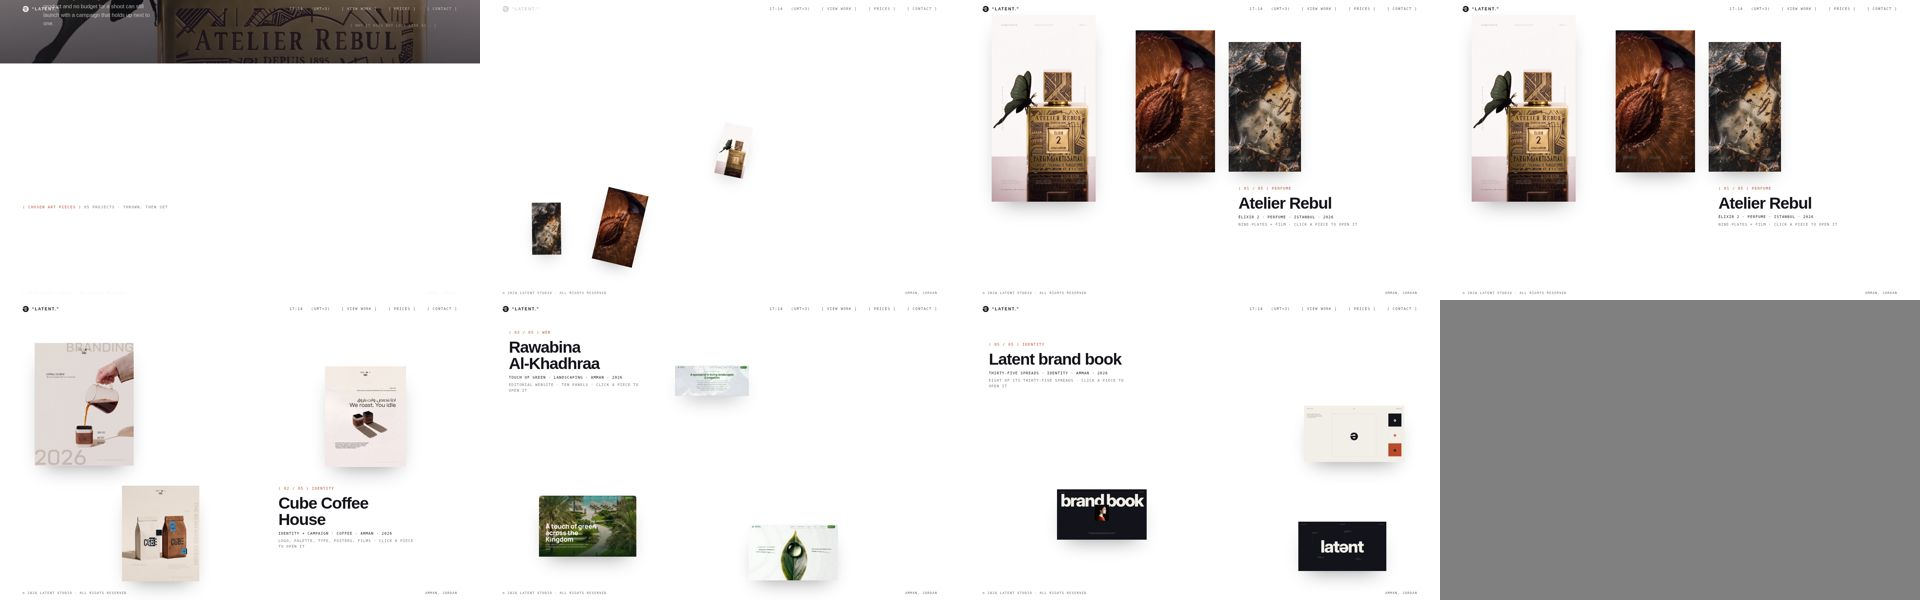
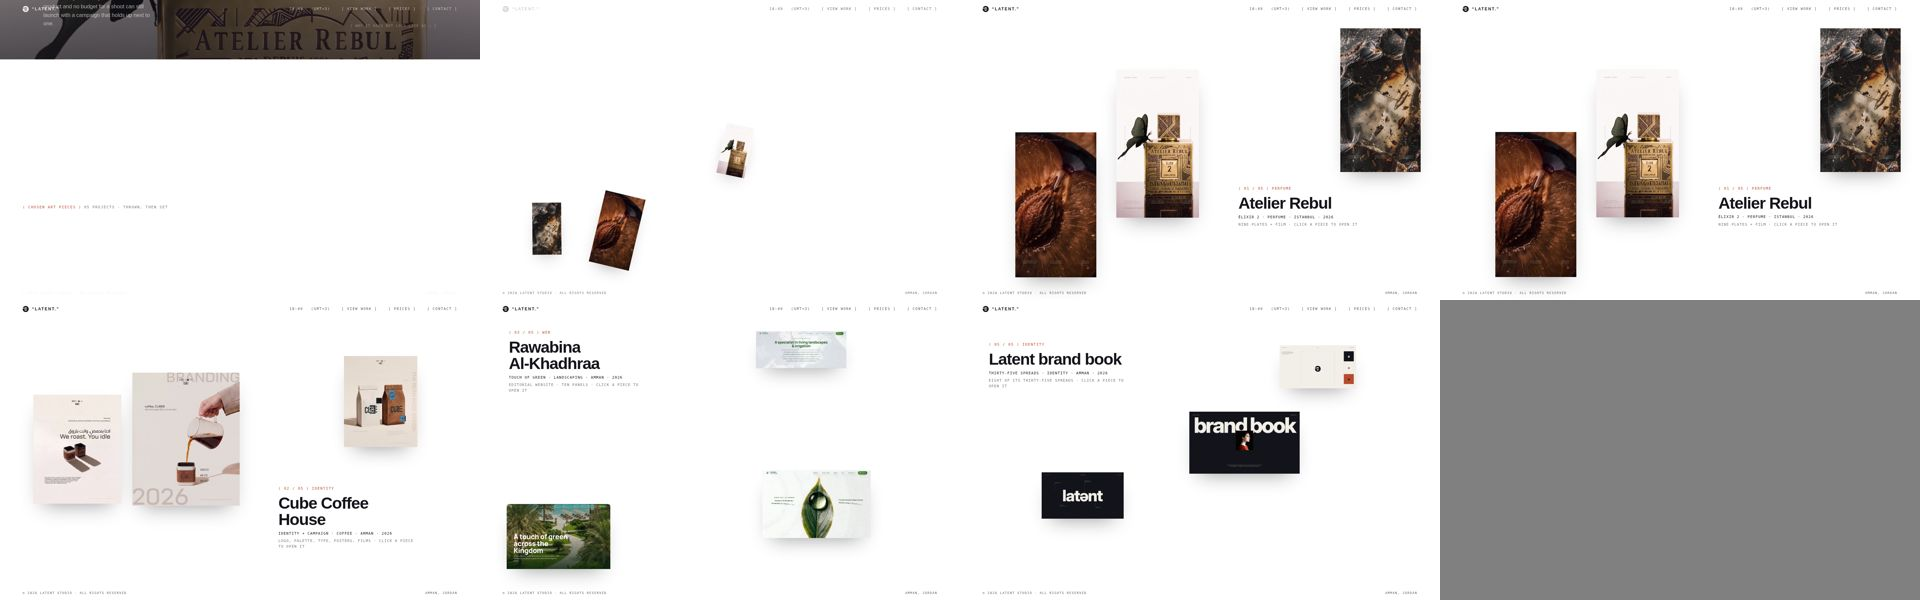
Hero back to the wordmark; scatter positions worked out in the browser
The settled positions of each scatter screen are now computed against the real text box and screen size, seeded per screen, so no piece can land on the text at any viewport. The hero returns to the wordmark version on D and E.

Claude-Session: https://claude.ai/code/session_0142D8cuVtdJreCuNyu9fMo2

diff --git a/latent-v3d/index.html b/latent-v3d/index.html
@@ -2435,22 +2435,12 @@ html.pg-snap{scroll-snap-type:y proximity}
     <video class="pv-v pv-m js-pv-v" muted loop playsinline preload="none" poster="media/03-e05071777b.jpg" data-src="media/04-f0f04687bf.mp4"></video>
     <i class="pv-noise"></i><i class="pv-grad"></i>
   </div>
-  <div class="stage he">
-    <p class="he-top js-pu2" style="--d:.1s"><span>Latent.</span><span>Brand visuals<br>&amp; film</span><span>AI-native<br>practice</span><span>Amman<br><span id="clock">--:--</span> GMT+3</span><span>Edition<br>No. 001</span></p>
-    <h1 class="he-head js-pu2" style="--d:.25s">Not your<br>average <em>AI.</em></h1>
-    <p class="he-sub js-pu2" style="--d:.45s">Directed<br>like film.</p>
-    <p class="he-year js-pu2" style="--d:.6s"><span class="logo he-logo" role="img" aria-label="Latent"></span>&copy;20<br>26</p>
-    <i class="he-rule he-rule1 js-he-rule" style="--d:.5s"></i><i class="he-rule he-rule2 js-he-rule" style="--d:.65s"></i>
-    <p class="he-p he-p1 js-pu2" style="--d:.7s">Every frame leaves a trace. Light, lens, angle and story all carry meaning. What looks generated is usually a decision nobody made. Direction begins when someone makes it.</p>
-    <p class="he-p he-p2 js-pu2" style="--d:.85s">We do not believe in prompts as briefs. Each product demands its own light, its own lens, its own way of sitting in the frame. The process is one of testing, reducing, shifting and rebuilding until the frame feels shot, not typed.</p>
-    <span class="he-tab he-tab1 js-pu2" style="--d:.9s">Working method</span>
-    <span class="he-tab he-tab2 js-pu2" style="--d:1s">Design principle</span>
-    <span class="he-v he-v1 js-pu2" style="--d:.95s">A frame is a decision</span>
-    <span class="he-v he-v2 js-pu2" style="--d:1.05s">Light has weight</span>
-    <p class="he-bl js-pu2" style="--d:1.1s">No set. No crew. No reshoot day.</p>
-    <span class="he-ratio js-pu2" style="--d:1.08s">60 &middot; 30 &middot; 10</span>
-    <a class="he-br js-pu2" href="#prices" style="--d:1.15s">Let&rsquo;s generate &#8599;</a>
-    <span class="he-hide"><span class="cyc" id="cyc"></span></span>
+  <div class="stage hb">
+    <h1 class="hb-mark js-pu2" style="--d:.1s"><span class="hb-w">Latent</span> <span class="hb-w">Studio</span></h1>
+    <p class="hb-meta js-pu2" style="--d:.55s"><span>AI-native brand visuals</span><span>Directed like film</span><span>Est. 2026 &middot; Amman</span></p>
+    <p class="hs hs-role js-pu2 hb-role" style="--d:.7s">Your brand deserves better <span class="cyc" id="cyc"></span></p>
+    <a class="hb-cta js-pu2" href="#prices" style="--d:.85s"><small>Have something in mind?</small><b>Let&rsquo;s generate <span>&#8599;</span></b></a>
+    <span id="clock" hidden>&mdash;</span>
   </div>
 </section></div>
 
@@ -4319,6 +4309,37 @@ html.pg-snap{scroll-snap-type:y proximity}
   var first = document.querySelector(".hero .js-pu2"); if(!first) return;
   var mo = new MutationObserver(function(){ var on = first.classList.contains("in"); rules.forEach(function(r){ r.classList.toggle("in", on); }); });
   mo.observe(first, { attributes:true, attributeFilter:["class"] }); rules.forEach(function(r){ r.classList.toggle("in", first.classList.contains("in")); });
+})();
+/* the scatter, settled for real: each screen's resting positions are worked out in the browser against the actual
+   text box and screen, with a seeded shuffle per screen so they stay put between visits; nothing overlaps */
+(function(){
+  var sec = document.querySelector(".js-sx"); if(!sec) return;
+  var panels = [].slice.call(sec.querySelectorAll(".js-sx-panel")), phone = function(){ return window.innerWidth <= 820; };
+  function rng(seed){ return function(){ seed = (seed * 9301 + 49297) % 233280; return seed / 233280; }; }
+  function hit(a, b, m){ return !(a.x + a.w < b.x - m || a.x > b.x + b.w + m || a.y + a.h < b.y - m || a.y > b.y + b.h + m); }
+  function layout(p, i){
+    var W = p.clientWidth, H = p.clientHeight, txt = p.querySelector(".js-sx-text"), tr = txt.getBoundingClientRect(), pr = p.getBoundingClientRect();
+    var tb = { x: tr.left - pr.left, y: tr.top - pr.top, w: tr.width, h: tr.height };
+    var tiles = [].slice.call(p.querySelectorAll(".js-sx-t")).filter(function(t){ return getComputedStyle(t).display !== "none"; });
+    var r = rng(17 + i * 101), m = Math.max(10, W * .012), placed = [], top = phone() ? H * .06 : H * .05, bottom = phone() ? tb.y - m : H * .95;
+    tiles.forEach(function(t, k){
+      var ar = (t.style.getPropertyValue("--ar") || "4/5").split("/"), a = parseFloat(ar[0]) / parseFloat(ar[1] || 1);
+      var wmin = phone() ? W * .30 : W * .15, wmax = phone() ? W * .44 : W * .23, box = null, tries = 0, scale = 1;
+      while(!box && tries < 4000){
+        tries++; if(tries % 800 === 0) scale *= .88;
+        var w = (wmin + r() * (wmax - wmin)) * scale, h = w / a; if(h > (bottom - top) * .9) continue;
+        var x = W * .02 + r() * (W * .96 - w), y = top + r() * (bottom - top - h), b = { x: x, y: y, w: w, h: h };
+        if((!phone() && hit(b, tb, m)) || placed.some(function(o){ return hit(b, o, m); })) continue;
+        box = b;
+      }
+      if(!box) box = { x: W * .02 + k * W * .3, y: top, w: wmin * .8, h: wmin * .8 / a };
+      placed.push(box);
+      t.style.setProperty("--ox", (box.x / W * 100).toFixed(2)); t.style.setProperty("--oy", (box.y / H * 100).toFixed(2)); t.style.setProperty("--ow", (box.w / window.innerWidth * 100).toFixed(2));
+      t.style.setProperty("--px", (box.x / W * 100).toFixed(2)); t.style.setProperty("--py", (box.y / H * 100).toFixed(2)); t.style.setProperty("--pw", (box.w / window.innerWidth * 100).toFixed(2));
+    });
+  }
+  function all(){ panels.forEach(layout); }
+  var t; window.addEventListener("resize", function(){ clearTimeout(t); t = setTimeout(all, 150); }); window.addEventListener("load", all); if(document.fonts && document.fonts.ready) document.fonts.ready.then(all); all();
 })();
 </script>
 </body>

diff --git a/latent-v3e/index.html b/latent-v3e/index.html
@@ -2435,22 +2435,12 @@ html.pg-snap{scroll-snap-type:y proximity}
     <video class="pv-v pv-m js-pv-v" muted loop playsinline preload="none" poster="media/03-e05071777b.jpg" data-src="media/04-f0f04687bf.mp4"></video>
     <i class="pv-noise"></i><i class="pv-grad"></i>
   </div>
-  <div class="stage he">
-    <p class="he-top js-pu2" style="--d:.1s"><span>Latent.</span><span>Brand visuals<br>&amp; film</span><span>AI-native<br>practice</span><span>Amman<br><span id="clock">--:--</span> GMT+3</span><span>Edition<br>No. 001</span></p>
-    <h1 class="he-head js-pu2" style="--d:.25s">Not your<br>average <em>AI.</em></h1>
-    <p class="he-sub js-pu2" style="--d:.45s">Directed<br>like film.</p>
-    <p class="he-year js-pu2" style="--d:.6s"><span class="logo he-logo" role="img" aria-label="Latent"></span>&copy;20<br>26</p>
-    <i class="he-rule he-rule1 js-he-rule" style="--d:.5s"></i><i class="he-rule he-rule2 js-he-rule" style="--d:.65s"></i>
-    <p class="he-p he-p1 js-pu2" style="--d:.7s">Every frame leaves a trace. Light, lens, angle and story all carry meaning. What looks generated is usually a decision nobody made. Direction begins when someone makes it.</p>
-    <p class="he-p he-p2 js-pu2" style="--d:.85s">We do not believe in prompts as briefs. Each product demands its own light, its own lens, its own way of sitting in the frame. The process is one of testing, reducing, shifting and rebuilding until the frame feels shot, not typed.</p>
-    <span class="he-tab he-tab1 js-pu2" style="--d:.9s">Working method</span>
-    <span class="he-tab he-tab2 js-pu2" style="--d:1s">Design principle</span>
-    <span class="he-v he-v1 js-pu2" style="--d:.95s">A frame is a decision</span>
-    <span class="he-v he-v2 js-pu2" style="--d:1.05s">Light has weight</span>
-    <p class="he-bl js-pu2" style="--d:1.1s">No set. No crew. No reshoot day.</p>
-    <span class="he-ratio js-pu2" style="--d:1.08s">60 &middot; 30 &middot; 10</span>
-    <a class="he-br js-pu2" href="#prices" style="--d:1.15s">Let&rsquo;s generate &#8599;</a>
-    <span class="he-hide"><span class="cyc" id="cyc"></span></span>
+  <div class="stage hb">
+    <h1 class="hb-mark js-pu2" style="--d:.1s"><span class="hb-w">Latent</span> <span class="hb-w">Studio</span></h1>
+    <p class="hb-meta js-pu2" style="--d:.55s"><span>AI-native brand visuals</span><span>Directed like film</span><span>Est. 2026 &middot; Amman</span></p>
+    <p class="hs hs-role js-pu2 hb-role" style="--d:.7s">Your brand deserves better <span class="cyc" id="cyc"></span></p>
+    <a class="hb-cta js-pu2" href="#prices" style="--d:.85s"><small>Have something in mind?</small><b>Let&rsquo;s generate <span>&#8599;</span></b></a>
+    <span id="clock" hidden>&mdash;</span>
   </div>
 </section></div>
 
@@ -4356,6 +4346,37 @@ html.pg-snap{scroll-snap-type:y proximity}
   var first = document.querySelector(".hero .js-pu2"); if(!first) return;
   var mo = new MutationObserver(function(){ var on = first.classList.contains("in"); rules.forEach(function(r){ r.classList.toggle("in", on); }); });
   mo.observe(first, { attributes:true, attributeFilter:["class"] }); rules.forEach(function(r){ r.classList.toggle("in", first.classList.contains("in")); });
+})();
+/* the scatter, settled for real: each screen's resting positions are worked out in the browser against the actual
+   text box and screen, with a seeded shuffle per screen so they stay put between visits; nothing overlaps */
+(function(){
+  var sec = document.querySelector(".js-sx"); if(!sec) return;
+  var panels = [].slice.call(sec.querySelectorAll(".js-sx-panel")), phone = function(){ return window.innerWidth <= 820; };
+  function rng(seed){ return function(){ seed = (seed * 9301 + 49297) % 233280; return seed / 233280; }; }
+  function hit(a, b, m){ return !(a.x + a.w < b.x - m || a.x > b.x + b.w + m || a.y + a.h < b.y - m || a.y > b.y + b.h + m); }
+  function layout(p, i){
+    var W = p.clientWidth, H = p.clientHeight, txt = p.querySelector(".js-sx-text"), tr = txt.getBoundingClientRect(), pr = p.getBoundingClientRect();
+    var tb = { x: tr.left - pr.left, y: tr.top - pr.top, w: tr.width, h: tr.height };
+    var tiles = [].slice.call(p.querySelectorAll(".js-sx-t")).filter(function(t){ return getComputedStyle(t).display !== "none"; });
+    var r = rng(17 + i * 101), m = Math.max(10, W * .012), placed = [], top = phone() ? H * .06 : H * .05, bottom = phone() ? tb.y - m : H * .95;
+    tiles.forEach(function(t, k){
+      var ar = (t.style.getPropertyValue("--ar") || "4/5").split("/"), a = parseFloat(ar[0]) / parseFloat(ar[1] || 1);
+      var wmin = phone() ? W * .30 : W * .15, wmax = phone() ? W * .44 : W * .23, box = null, tries = 0, scale = 1;
+      while(!box && tries < 4000){
+        tries++; if(tries % 800 === 0) scale *= .88;
+        var w = (wmin + r() * (wmax - wmin)) * scale, h = w / a; if(h > (bottom - top) * .9) continue;
+        var x = W * .02 + r() * (W * .96 - w), y = top + r() * (bottom - top - h), b = { x: x, y: y, w: w, h: h };
+        if((!phone() && hit(b, tb, m)) || placed.some(function(o){ return hit(b, o, m); })) continue;
+        box = b;
+      }
+      if(!box) box = { x: W * .02 + k * W * .3, y: top, w: wmin * .8, h: wmin * .8 / a };
+      placed.push(box);
+      t.style.setProperty("--ox", (box.x / W * 100).toFixed(2)); t.style.setProperty("--oy", (box.y / H * 100).toFixed(2)); t.style.setProperty("--ow", (box.w / window.innerWidth * 100).toFixed(2));
+      t.style.setProperty("--px", (box.x / W * 100).toFixed(2)); t.style.setProperty("--py", (box.y / H * 100).toFixed(2)); t.style.setProperty("--pw", (box.w / window.innerWidth * 100).toFixed(2));
+    });
+  }
+  function all(){ panels.forEach(layout); }
+  var t; window.addEventListener("resize", function(){ clearTimeout(t); t = setTimeout(all, 150); }); window.addEventListener("load", all); if(document.fonts && document.fonts.ready) document.fonts.ready.then(all); all();
 })();
 </script>
 </body>

diff --git a/latent-v3-src/v3_cases2.js b/latent-v3-src/v3_cases2.js
@@ -563,3 +563,34 @@
   var mo = new MutationObserver(function(){ var on = first.classList.contains("in"); rules.forEach(function(r){ r.classList.toggle("in", on); }); });
   mo.observe(first, { attributes:true, attributeFilter:["class"] }); rules.forEach(function(r){ r.classList.toggle("in", first.classList.contains("in")); });
 })();
+/* the scatter, settled for real: each screen's resting positions are worked out in the browser against the actual
+   text box and screen, with a seeded shuffle per screen so they stay put between visits; nothing overlaps */
+(function(){
+  var sec = document.querySelector(".js-sx"); if(!sec) return;
+  var panels = [].slice.call(sec.querySelectorAll(".js-sx-panel")), phone = function(){ return window.innerWidth <= 820; };
+  function rng(seed){ return function(){ seed = (seed * 9301 + 49297) % 233280; return seed / 233280; }; }
+  function hit(a, b, m){ return !(a.x + a.w < b.x - m || a.x > b.x + b.w + m || a.y + a.h < b.y - m || a.y > b.y + b.h + m); }
+  function layout(p, i){
+    var W = p.clientWidth, H = p.clientHeight, txt = p.querySelector(".js-sx-text"), tr = txt.getBoundingClientRect(), pr = p.getBoundingClientRect();
+    var tb = { x: tr.left - pr.left, y: tr.top - pr.top, w: tr.width, h: tr.height };
+    var tiles = [].slice.call(p.querySelectorAll(".js-sx-t")).filter(function(t){ return getComputedStyle(t).display !== "none"; });
+    var r = rng(17 + i * 101), m = Math.max(10, W * .012), placed = [], top = phone() ? H * .06 : H * .05, bottom = phone() ? tb.y - m : H * .95;
+    tiles.forEach(function(t, k){
+      var ar = (t.style.getPropertyValue("--ar") || "4/5").split("/"), a = parseFloat(ar[0]) / parseFloat(ar[1] || 1);
+      var wmin = phone() ? W * .30 : W * .15, wmax = phone() ? W * .44 : W * .23, box = null, tries = 0, scale = 1;
+      while(!box && tries < 4000){
+        tries++; if(tries % 800 === 0) scale *= .88;
+        var w = (wmin + r() * (wmax - wmin)) * scale, h = w / a; if(h > (bottom - top) * .9) continue;
+        var x = W * .02 + r() * (W * .96 - w), y = top + r() * (bottom - top - h), b = { x: x, y: y, w: w, h: h };
+        if((!phone() && hit(b, tb, m)) || placed.some(function(o){ return hit(b, o, m); })) continue;
+        box = b;
+      }
+      if(!box) box = { x: W * .02 + k * W * .3, y: top, w: wmin * .8, h: wmin * .8 / a };
+      placed.push(box);
+      t.style.setProperty("--ox", (box.x / W * 100).toFixed(2)); t.style.setProperty("--oy", (box.y / H * 100).toFixed(2)); t.style.setProperty("--ow", (box.w / window.innerWidth * 100).toFixed(2));
+      t.style.setProperty("--px", (box.x / W * 100).toFixed(2)); t.style.setProperty("--py", (box.y / H * 100).toFixed(2)); t.style.setProperty("--pw", (box.w / window.innerWidth * 100).toFixed(2));
+    });
+  }
+  function all(){ panels.forEach(layout); }
+  var t; window.addEventListener("resize", function(){ clearTimeout(t); t = setTimeout(all, 150); }); window.addEventListener("load", all); if(document.fonts && document.fonts.ready) document.fonts.ready.then(all); all();
+})();
